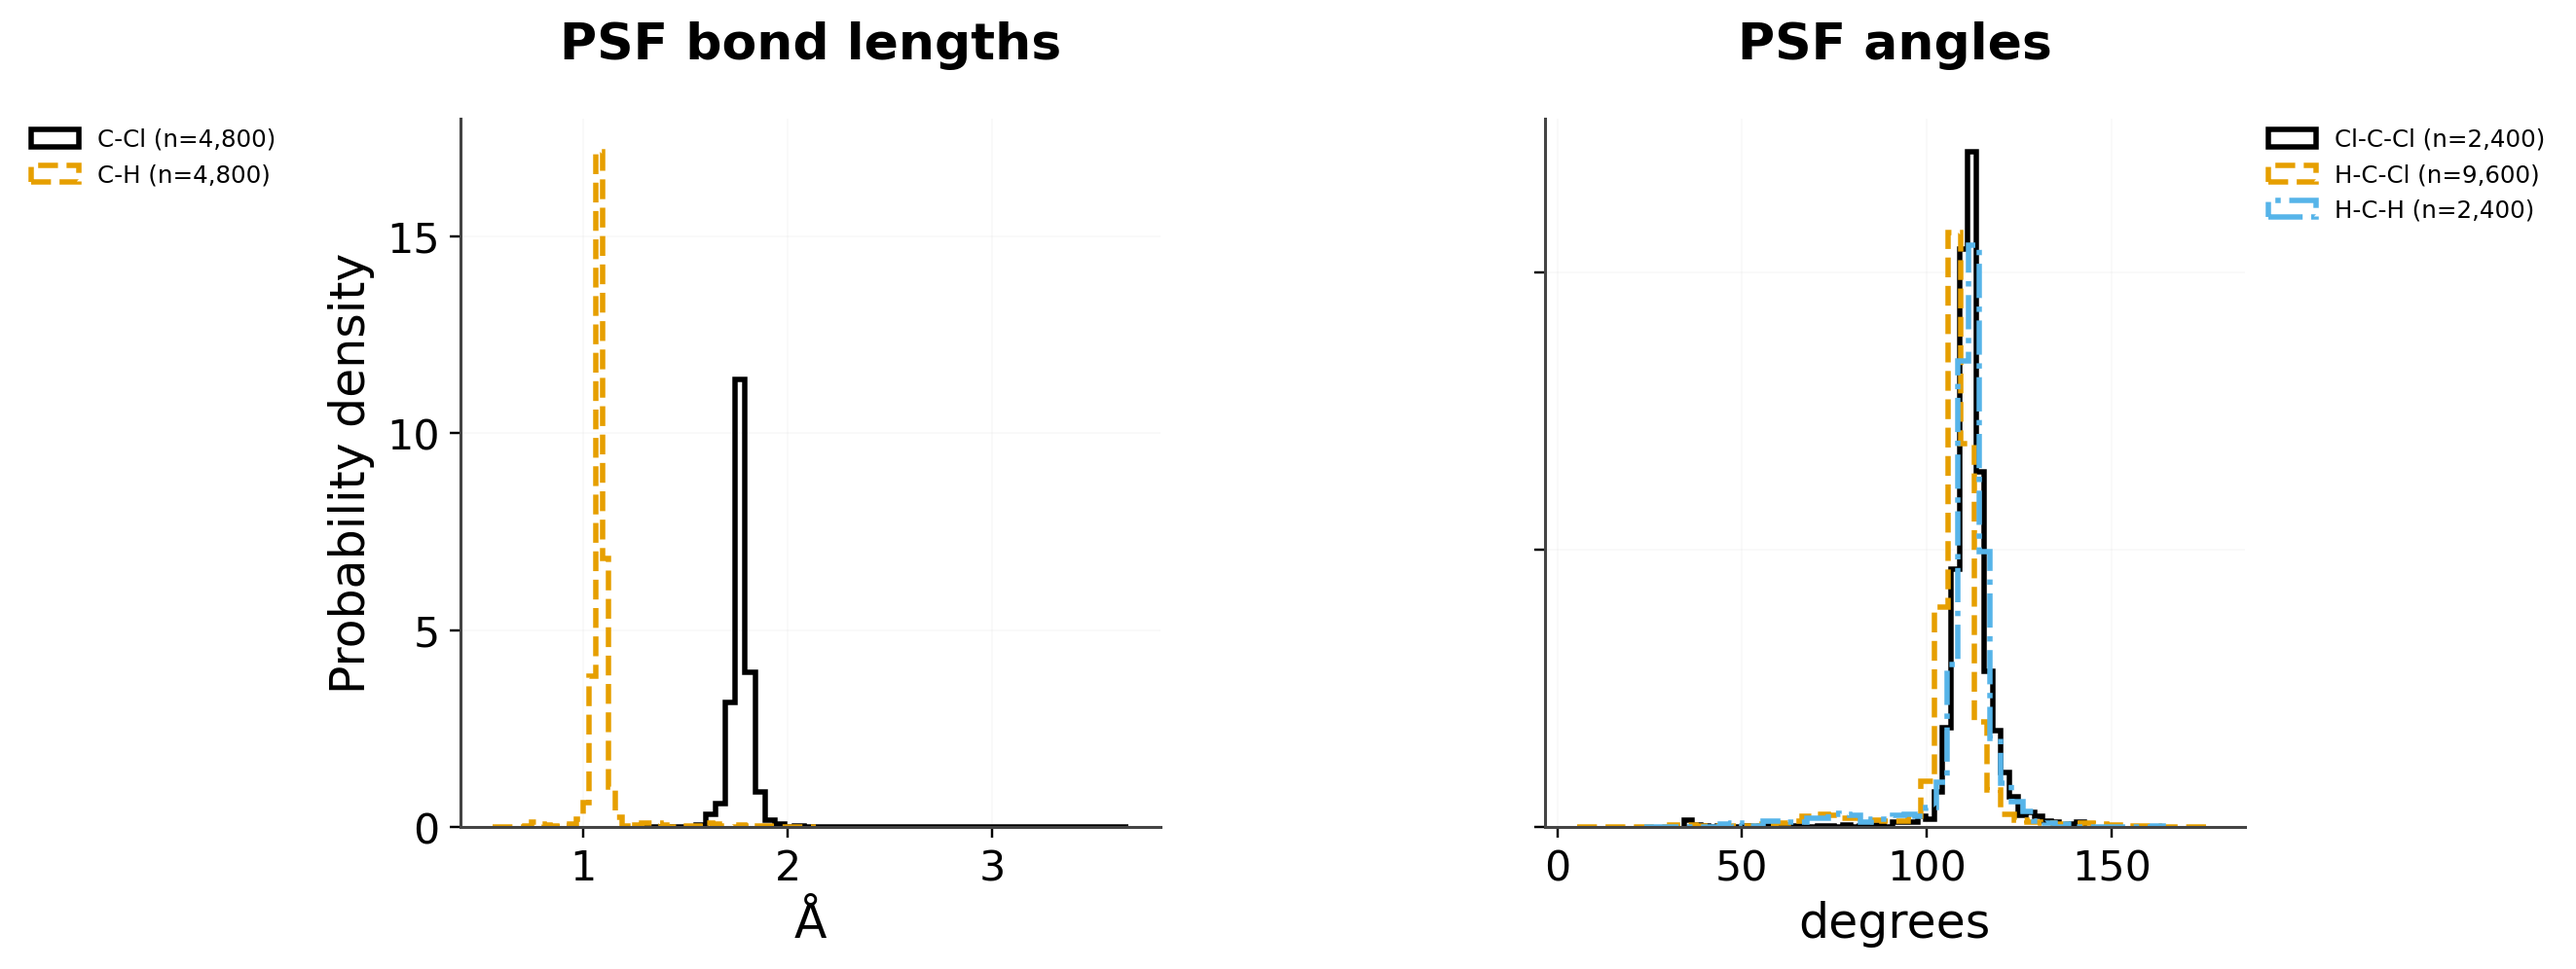
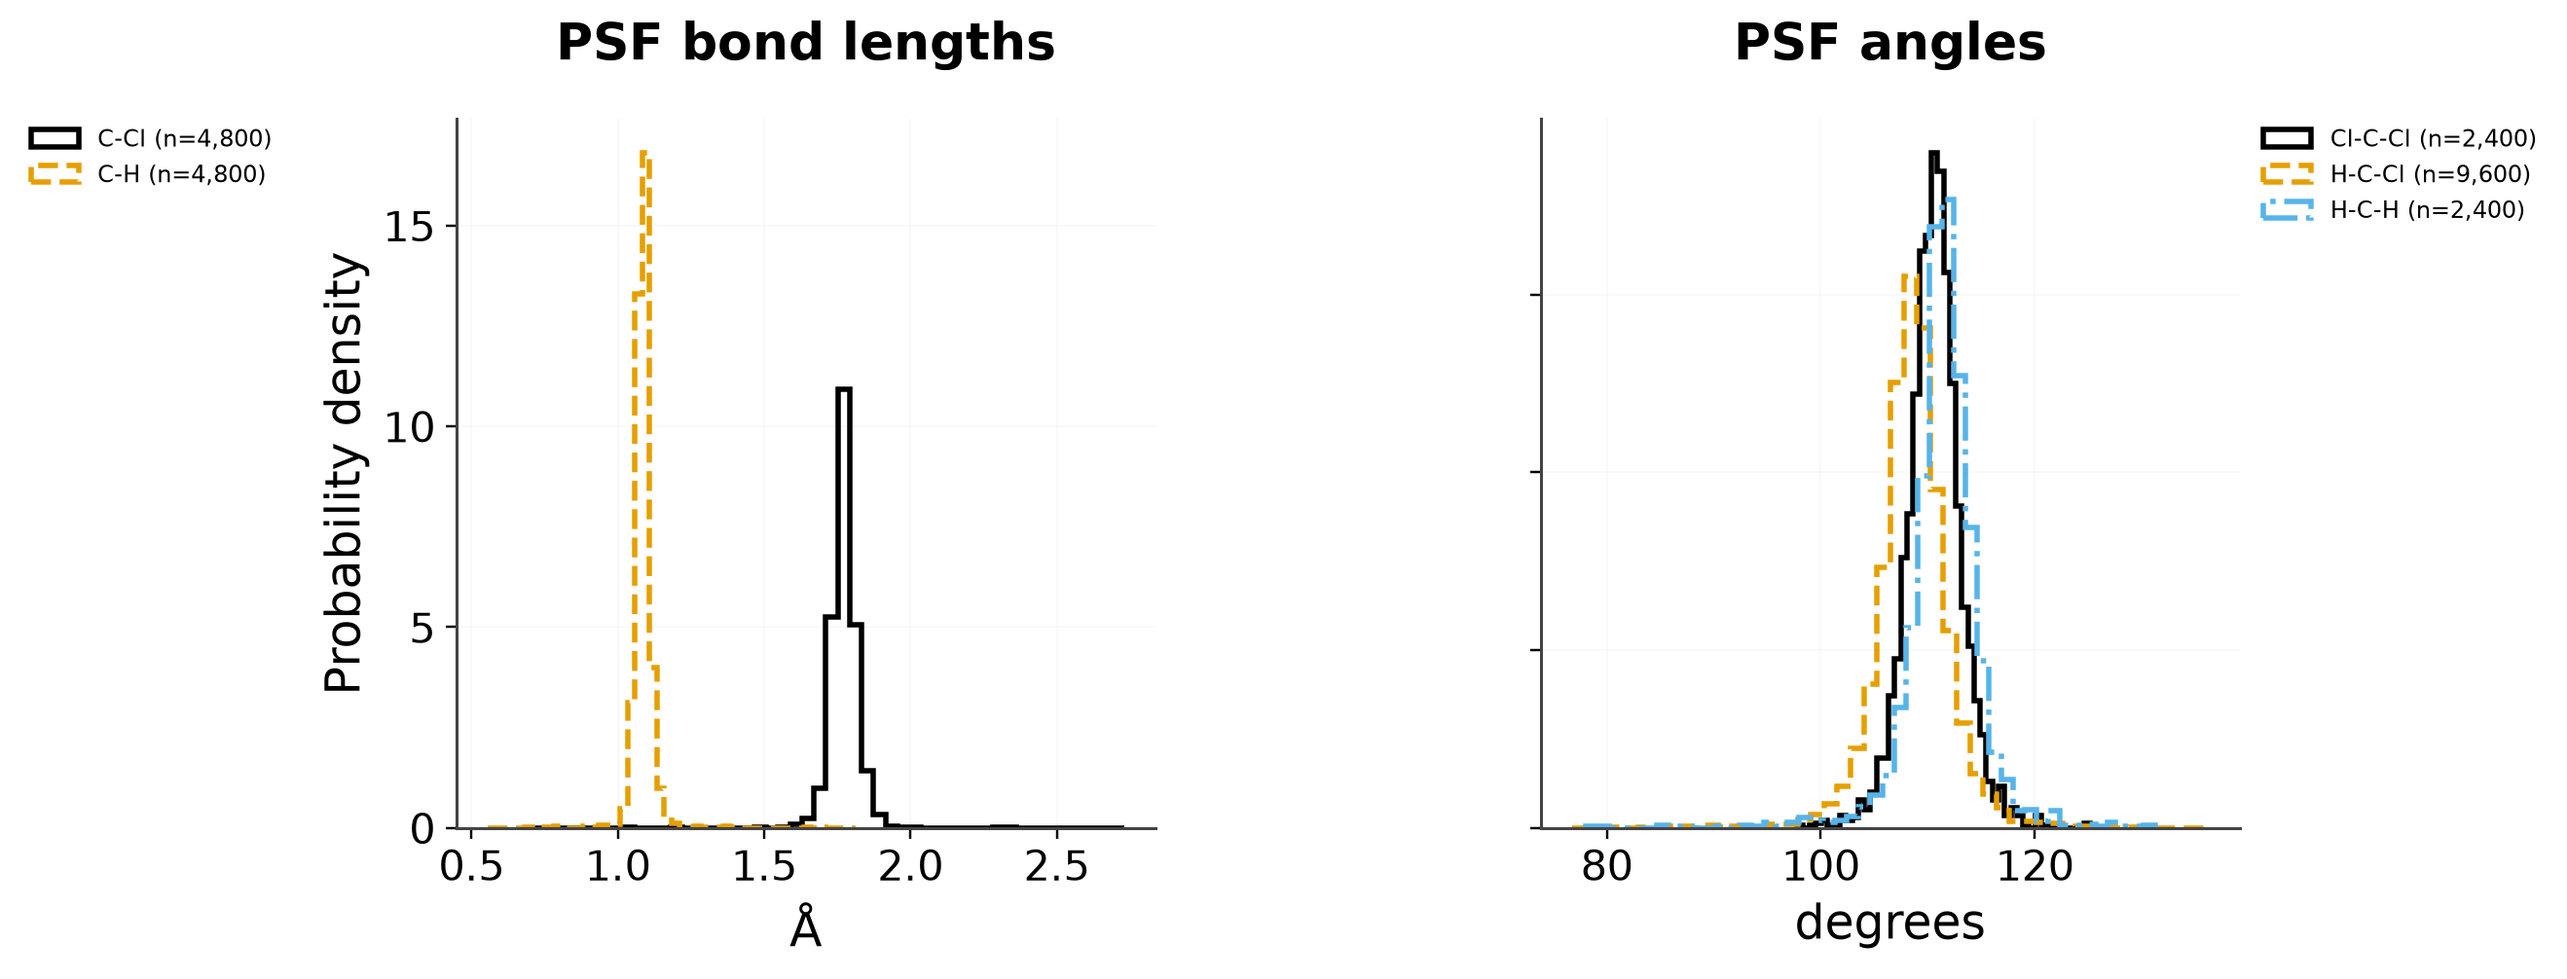
docs: refresh liquid validation plots for PSF angle-restraint NVT
Regenerate DCM:120 structure-validation assets from the 20 ps NVT run
with --psf-angle-restraints, add an unconstrained-vs-restrained comparison
figure, and expose --title plus clearer summary run notes in the plotter.

diff --git a/scripts/plot_liquid_structure_validation.py b/scripts/plot_liquid_structure_validation.py
@@ -392,11 +392,14 @@ def plot_validation_summary(
     for key, label, color, ls in series_specs:
         if key in bond_ts:
             ax_bh.plot(t, bond_ts[key], color=color, linestyle=ls, linewidth=1.7, label=label)
+    from matplotlib.ticker import MaxNLocator
+
     ax_bh.set_xlabel(r"$t$ (ps)")
     ax_bh.set_ylabel(r"Bond length (Å)")
     ax_bh.set_title("PSF bond lengths over time", fontsize=11, pad=10)
     ax_bh.grid(alpha=0.18)
-    ax_bh.locator_params(axis="y", nbins=4)
+    ax_bh.yaxis.set_major_locator(MaxNLocator(nbins=4, prune="both"))
+    ax_bh.xaxis.set_major_locator(MaxNLocator(nbins=4, prune="both"))
     legend_outside(ax_bh, side="right", fontsize=8)
 
     ax_bhist = fig.add_subplot(bond_gs[0, 1])
@@ -417,8 +420,9 @@ def plot_validation_summary(
     ax_bhist.set_title("Bond-length distributions", fontsize=11, pad=10)
     ax_bhist.set_ylim(bottom=0.0)
     y0, y1 = ax_bhist.get_ylim()
-    ax_bhist.set_ylim(0.0, y1 * 1.15)
-    ax_bhist.locator_params(axis="y", nbins=3)
+    ax_bhist.set_ylim(0.0, y1 * 1.18)
+    ax_bhist.yaxis.set_major_locator(MaxNLocator(nbins=3, prune="both"))
+    ax_bhist.xaxis.set_major_locator(MaxNLocator(nbins=4, prune="both"))
     ax_bhist.grid(alpha=0.18)
     legend_outside(ax_bhist, side="right", fontsize=8)
 
@@ -439,6 +443,10 @@ def plot_validation_summary(
     ax_bad.set_title("PSF bond soft-cutoff outliers (C–H>1.40 Å, C–Cl>2.15 Å)", fontsize=11, pad=10)
     ax_bad.grid(alpha=0.18)
     ax_bad.set_ylim(bottom=0.0)
+    y0, y1 = ax_bad.get_ylim()
+    ax_bad.set_ylim(0.0, max(y1 * 1.15, 1.0))
+    ax_bad.yaxis.set_major_locator(MaxNLocator(nbins=4, prune="both", integer=True))
+    ax_bad.xaxis.set_major_locator(MaxNLocator(nbins=5, prune="both"))
     legend_outside(ax_bad, side="right", fontsize=8)
 
     # --- Row 4: key RDFs + angles ------------------------------------------------
@@ -465,6 +473,8 @@ def plot_validation_summary(
     ax_rdf.set_xlim(0.0, min(12.0, float(radii.max())))
     ax_rdf.set_ylim(bottom=0.0)
     ax_rdf.set_title("Element-pair RDFs", fontsize=11, pad=10)
+    ax_rdf.yaxis.set_major_locator(MaxNLocator(nbins=4, prune="both"))
+    ax_rdf.xaxis.set_major_locator(MaxNLocator(nbins=5, prune="both"))
     ax_rdf.grid(alpha=0.18)
     legend_outside(ax_rdf, side="right", fontsize=8)
 
@@ -488,8 +498,9 @@ def plot_validation_summary(
     ax_ang.set_title("Angle distributions (PSF)", fontsize=11, pad=10)
     ax_ang.set_ylim(bottom=0.0)
     y0, y1 = ax_ang.get_ylim()
-    ax_ang.set_ylim(0.0, y1 * 1.15)
-    ax_ang.locator_params(axis="y", nbins=3)
+    ax_ang.set_ylim(0.0, y1 * 1.18)
+    ax_ang.yaxis.set_major_locator(MaxNLocator(nbins=3, prune="both"))
+    ax_ang.xaxis.set_major_locator(MaxNLocator(nbins=5, prune="both"))
     ax_ang.grid(alpha=0.18)
     proxy = Line2D(
         [0], [0], color=status_color("neutral"), linestyle=":", linewidth=0.9, label=r"109.5°"
@@ -502,8 +513,8 @@ def plot_validation_summary(
     fig.suptitle(title, fontsize=12, y=0.978)
 
     fig.canvas.draw()
-    # 1 px pad: axis-aligned tick bboxes often touch without a visual collision.
-    assert_no_text_overlap(fig, padding_px=1.0)
+    # Small pad: axis-aligned tick bboxes often touch without a visual collision.
+    assert_no_text_overlap(fig, padding_px=2.0)
     fig.savefig(output, dpi=200, bbox_inches="tight")
     plt.close(fig)
 
@@ -553,6 +564,10 @@ def write_summary_txt(
         "- conda povray needs +L to share/povray-3.7/include (see povray_wrap.sh)",
         "- Camera: ASE orthographic; jmol textures + covalent_radii * scale",
         "",
+        "Run notes",
+        f"- source H5: {h5}",
+        "- Prefer --psf-angle-restraints on jaxmd liquid NVT to keep DCM tetrahedral",
+        "",
         "Outputs",
     ]
     lines.extend(f"- {name}" for name in outputs)
@@ -587,6 +602,12 @@ def main() -> None:
         type=float,
         default=2.0,
         help="Preferred snapshot time (ps) for POV captions; images are reused if present.",
+    )
+    parser.add_argument(
+        "--title",
+        type=str,
+        default=None,
+        help="Override figure suptitle (default encodes box / frame count).",
     )
     args = parser.parse_args()
 
@@ -672,7 +693,13 @@ def main() -> None:
         bond_ts=bond_ts,
         pov_images=pov_images,
         output=summary_png,
-        title=f"DCM:120 liquid NVT validation  ·  PSF topology  ·  box={args.box:g} Å  ·  {len(frames)} frames",
+        title=(
+            args.title
+            or (
+                f"DCM:120 liquid NVT validation  ·  PSF topology  ·  "
+                f"box={args.box:g} Å  ·  {len(frames)} frames"
+            )
+        ),
     )
     print("wrote", summary_png)
 

diff --git a/docs/plotting-style-guide.md b/docs/plotting-style-guide.md
@@ -401,9 +401,17 @@ distributions) into one summary figure. Prefer
 trace, `legend_outside(...)` (never `loc="best"`), shared axis labels on
 RDF grids, and `assert_no_text_overlap(fig)` before `savefig`. The house
 example is [`docs/images/structures/validation_summary.png`](images/structures/validation_summary.png)
-from `scripts/plot_liquid_structure_validation.py`:
+from `scripts/plot_liquid_structure_validation.py` (DCM:120 liquid NVT with
+`--psf-angle-restraints` to keep monomers tetrahedral):
 
-![DCM:120 liquid NVT validation summary — POV-Ray snapshots, thermo time series with marginals, PSF bond health, RDFs, and angle distributions](images/structures/validation_summary.png)
+![DCM:120 liquid NVT + PSF angle restraints — POV-Ray snapshots, thermo time series with marginals, PSF bond health, RDFs, and angle distributions](images/structures/validation_summary.png)
+
+![Unconstrained vs PSF angle restraints](images/structures/unconstrained_vs_angle_restraints.png)
+
+**Figure.** Same 20 ps NVT protocol with and without CGenFF angle + Urey
+restraints from the PSF. Angle restraints keep tetrahedral geometry and
+sharply cut late-run bond outliers; residual max-bond growth after ~12 ps
+still points to missing hard bond constraints / underdense packing.
 
 Standalone POV panels (PSF bonds only; molecular MIC wrap):
 
